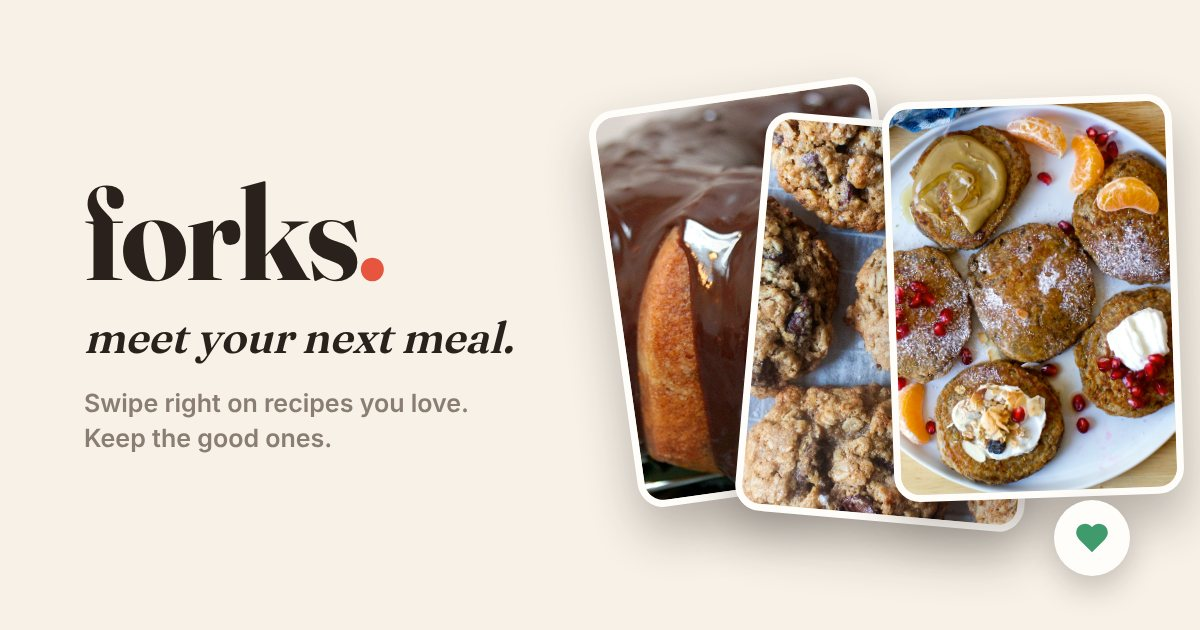
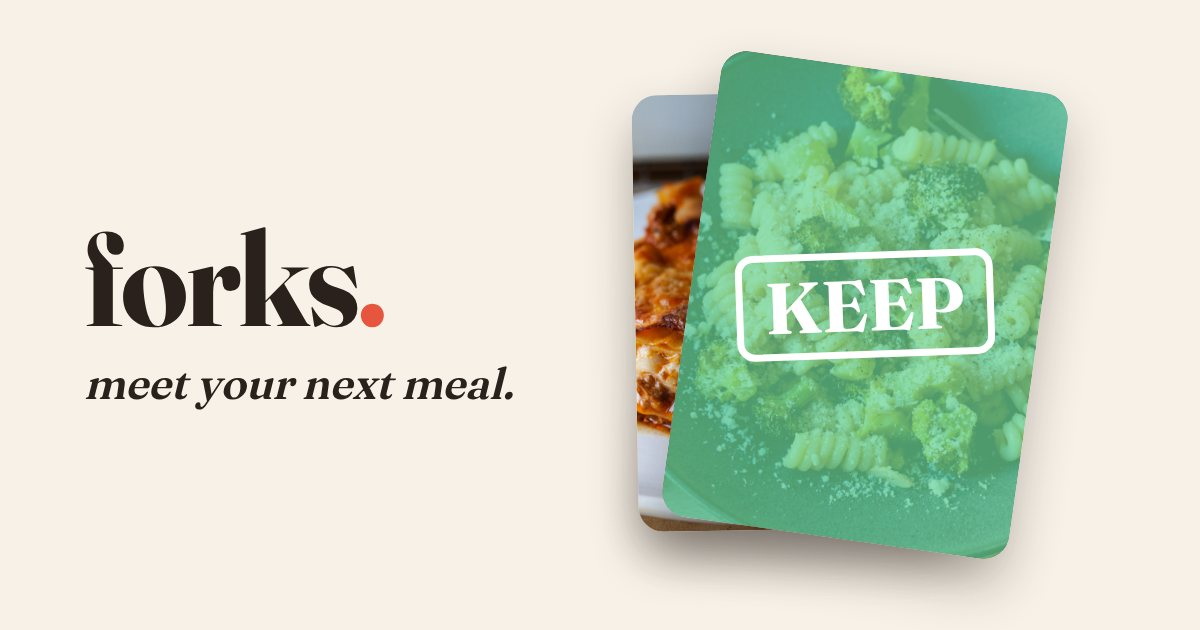
Site share image: mid-swipe KEEP card with meal photos
Claude-Session: https://claude.ai/code/session_01A4EUbJws8ytQmaqXjtp1SH

diff --git a/tools/og/render.js b/tools/og/render.js
@@ -48,18 +48,23 @@ const recipeHTML = (r) => `<!doctype html><html><head>${BASE}<style>
   <div class="body"><span class="src">${esc(r.source)}</span><h1>${esc(r.title)}</h1></div>
 </body></html>`;
 
+// Site image: wordmark + tagline on the left; on the right, the app's swipe moment:
+// a stack of meal cards with the top one tilting right under the green KEEP mask.
 const siteHTML = (imgs) => `<!doctype html><html><head>${BASE}<style>
-  .left { position: absolute; left: 84px; top: 0; bottom: 0; width: 520px; display: flex; flex-direction: column; justify-content: center; }
+  .left { position: absolute; left: 84px; top: 0; bottom: 0; width: 470px; display: flex; flex-direction: column; justify-content: center; z-index: 5; }
   .big { font-size: 132px; line-height: .9; }
   .tl { font-family: Fraunces, serif; font-style: italic; font-weight: 600; font-size: 44px; margin-top: 18px; }
-  .sub { font-size: 25px; color: #8a7d72; margin-top: 22px; line-height: 1.4; max-width: 440px; }
-  .card { position: absolute; width: 290px; height: 400px; border-radius: 26px; overflow: hidden; border: 7px solid #fffdf9; box-shadow: 0 26px 50px rgba(42,33,28,.32); background: #e9dfd2; }
-  .card img { width: 100%; height: 100%; object-fit: cover; }
-  .heart { position: absolute; right: 70px; bottom: 54px; width: 76px; height: 76px; border-radius: 50%; background: #fffdf9; display: grid; place-items: center; box-shadow: 0 12px 30px rgba(42,33,28,.25); }
+  .card { position: absolute; border-radius: 26px; overflow: hidden; background: #e9dfd2; box-shadow: 0 26px 50px rgba(42,33,28,.30); }
+  .card img { width: 100%; height: 100%; object-fit: cover; display: block; }
+  .keep { position: absolute; inset: 0; background: rgba(108,214,150,.72); display: grid; place-items: center; }
+  .keep span { font-family: Fraunces, serif; font-weight: 700; color: #fff; font-size: 72px; border: 7px solid #fff; border-radius: 18px; padding: 2px 22px; transform: rotate(-10deg); }
 </style></head><body>
-  <div class="left"><div class="mark big">forks<i>.</i></div><div class="tl">meet your next meal.</div><div class="sub">Swipe right on recipes you love. Keep the good ones.</div></div>
-  ${imgs.slice(0, 3).map((src, i) => `<div class="card" style="left:${612 + i * 138}px; top:${92 + [0, 30, 6][i]}px; transform: rotate(${[-8, 5, -2][i]}deg); z-index:${i}"><img src="${esc(src)}" referrerpolicy="no-referrer"></div>`).join("")}
-  <div class="heart" style="z-index:9"><svg width="38" height="38" viewBox="0 0 24 24" fill="#3f9b6b"><path d="M19 14c1.49-1.46 3-3.21 3-5.5A5.5 5.5 0 0 0 16.5 3c-1.76 0-3 .5-4.5 2-1.5-1.5-2.74-2-4.5-2A5.5 5.5 0 0 0 2 8.5c0 2.3 1.5 4.05 3 5.5l7 7Z"/></svg></div>
+  <div class="left"><div class="mark big">forks<i>.</i></div><div class="tl">meet your next meal.</div></div>
+  <div class="card" style="left:640px; top:100px; width:330px; height:440px; transform:rotate(2deg) scale(.94); opacity:.8"><img src="${esc(imgs[2])}" referrerpolicy="no-referrer"></div>
+  <div class="card" style="left:630px; top:86px; width:340px; height:450px; transform:rotate(-1deg) scale(.97)"><img src="${esc(imgs[1])}" referrerpolicy="no-referrer"></div>
+  <div class="card" style="left:690px; top:70px; width:350px; height:470px; transform:rotate(8deg); z-index:3">
+    <img src="${esc(imgs[0])}" referrerpolicy="no-referrer"><div class="keep"><span>KEEP</span></div>
+  </div>
 </body></html>`;
 
 async function shoot(page, html, file) {
@@ -74,7 +79,7 @@ async function shoot(page, html, file) {
   // RECIPES_JSON lets you pass a pre-downloaded list (e.g. when Node can't reach the network directly).
   const raw = process.env.RECIPES_JSON
     ? JSON.parse(fs.readFileSync(process.env.RECIPES_JSON, "utf8"))
-    : await (await fetch(`${SUPABASE_URL}/rest/v1/meals_recipes?select=id,title,source,image&image=not.is.null`, { headers: { apikey: ANON, Authorization: `Bearer ${ANON}` } })).json();
+    : await (await fetch(`${SUPABASE_URL}/rest/v1/meals_recipes?select=id,title,source,image,category&image=not.is.null&is_roundup=is.false`, { headers: { apikey: ANON, Authorization: `Bearer ${ANON}` } })).json();
   const recipes = raw.filter((r) => !JUNK.test(r.title)).map((r) => ({ ...r, title: smartTitle(r.title), image: fixImg(r.image) }));
   const todo = recipes.filter((r) => ALL || !fs.existsSync(path.join(OUT, `${r.id}.jpg`)));
   console.log(`${recipes.length} recipes, ${todo.length} to render`);
@@ -82,9 +87,12 @@ async function shoot(page, html, file) {
   const browser = await chromium.launch();
   const ctx = await browser.newContext({ viewport: { width: 1200, height: 630 }, deviceScaleFactor: 1 });
 
-  // Site image: three photogenic recipes that actually load.
+  // Site image: three mains (not desserts or drinks), preferring hearty dinners, from hosts that load reliably.
   const sitePage = await ctx.newPage();
-  const picks = recipes.filter((r) => /assets\.bonappetit|smittenkitchen|i0\.wp\.com/.test(r.image)).slice(0, 12).map((r) => r.image);
+  const mains = recipes.filter((r) => r.category === "main" && /assets\.bonappetit|smittenkitchen|i0\.wp\.com/.test(r.image));
+  const hearty = /steak|chicken|pasta|lasagna|salmon|shrimp|pork|tacos|curry|stew|chili|roast|meatballs|noodles|risotto|potatoes/i;
+  const picks = [...mains.filter((r) => hearty.test(r.title)), ...mains].map((r) => r.image)
+    .filter((v, i, a) => a.indexOf(v) === i).slice(0, 3);
   await shoot(sitePage, siteHTML(picks), path.join(OUT, "site.jpg"));
   console.log("site.jpg");
 
